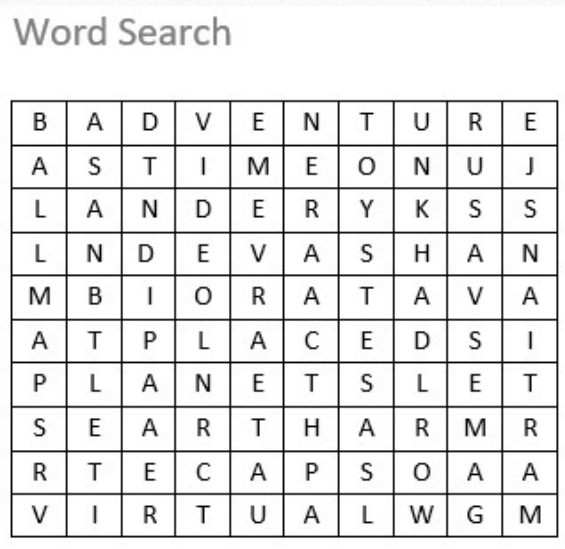
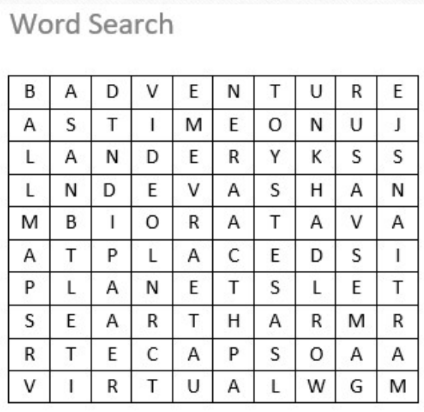
Updated puzzle three files and updated page layout

diff --git a/src/scripts/scenes/puzzleThree.ts b/src/scripts/scenes/puzzleThree.ts
@@ -20,9 +20,9 @@ export default class PuzzleThree extends Phaser.Scene {
         image.setScale(this.cameras.main.width / image.width, this.cameras.main.height / image.height);
        
 
-        const title = new Label(this,100,100,"Puzzle Three : Word Search");
-        const nextButton = new Button(this,550,330,'Next Puzzle',"PuzzleFour");
-        const hintButton = new Button(this,500,30,'hint',"");
+        const title = new Label(this, 100, 50, "Puzzle Three : Word Search");
+        const nextButton = new Button(this, 550, 330, 'Next Puzzle', "PuzzleFour");
+        const hintButton = new Button(this, 530, 30, 'hint', "");
 
         const content = [
           'You find a word search next! Find all the words.', 
@@ -30,11 +30,14 @@ export default class PuzzleThree extends Phaser.Scene {
           'Use that word as the password to open one of the locked boxes.',
         ];
 
-        var text = this.add.text(250, 180/*this.cameras.main.centerY*/, content, textStyle);
+        var text = this.add.text(250, 100/*this.cameras.main.centerY*/, content, textStyle);
         text.setOrigin(.103);
 
-        this.add.text(50, 560 , "Enter your password here:", textStyle);
-        var inputText = new Input(this, 450, 570, 150, 50);
+        this.add.image(490, 400, 'puzzThreeImgOne')
+        this.add.image(920, 410, 'puzzThreeImgTwo')
+
+        this.add.text(320, 630 , "Enter your password here:", textStyle);
+        var inputText = new Input(this, 710, 640, 150, 50);
         this.add.existing(inputText);
         inputText.on('textchange', function(inputText, e){ window.puzzOneVarOne = inputText.text;
         }, this);
